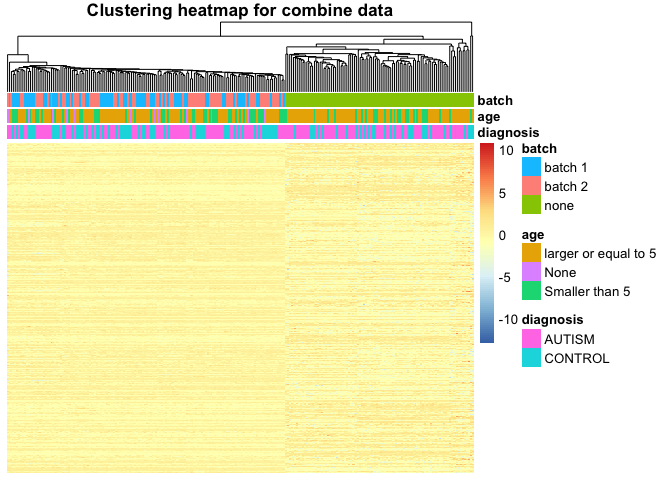
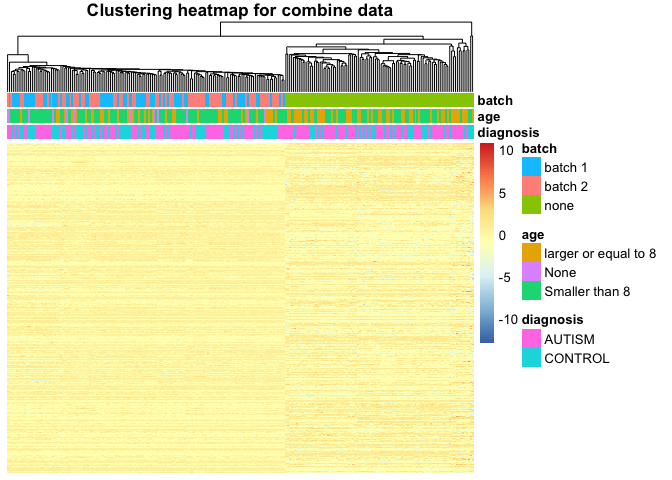
correct file

diff --git a/code/Pre_processing.md b/code/Pre_processing.md
@@ -150,7 +150,7 @@ Load the data
 
     ## File stored at:
 
-    ## /var/folders/ym/nv8j72n54cqb51_bvr34n90m0000gn/T//RtmpbuvqYN/GPL570.soft
+    ## /var/folders/ym/nv8j72n54cqb51_bvr34n90m0000gn/T//Rtmp6nby3k/GPL570.soft
 
     ## GSE18123-GPL6244_series_matrix.txt.gz
 
@@ -163,7 +163,7 @@ Load the data
 
     ## File stored at:
 
-    ## /var/folders/ym/nv8j72n54cqb51_bvr34n90m0000gn/T//RtmpbuvqYN/GPL6244.soft
+    ## /var/folders/ym/nv8j72n54cqb51_bvr34n90m0000gn/T//Rtmp6nby3k/GPL6244.soft
 
 ``` r
 geo_GSE18123<- geo_GSE18123[[1]]
@@ -269,7 +269,7 @@ dim(meta_data_GSE18123)
 ``` r
 ## convert age to categorial variable
 F_meta_data_GSE18123<-meta_data_GSE18123 %>% dplyr::select(organism,sample_name,diagnosis,age,batch)
-F_meta_data_GSE18123$age<-ifelse(F_meta_data_GSE18123$age>= 5, "larger or equal to 5", ifelse(F_meta_data_GSE18123$age < 5,"Smaller than 5",  "error"))
+F_meta_data_GSE18123$age<-ifelse(F_meta_data_GSE18123$age>= 8, "larger or equal to 8", ifelse(F_meta_data_GSE18123$age < 8,"Smaller than 8",  "error"))
 F_meta_data_GSE18123$age[is.na(F_meta_data_GSE18123$age)] <- "None"
 ```
 
@@ -293,7 +293,7 @@ geo_GSE25507 <- getGEO("GSE25507", GSEMatrix = TRUE)
     ## See spec(...) for full column specifications.
 
     ## Using locally cached version of GPL570 found here:
-    ## /var/folders/ym/nv8j72n54cqb51_bvr34n90m0000gn/T//RtmpbuvqYN/GPL570.soft
+    ## /var/folders/ym/nv8j72n54cqb51_bvr34n90m0000gn/T//Rtmp6nby3k/GPL570.soft
 
 ``` r
 geo_GSE25507<- geo_GSE25507[[1]]
@@ -357,7 +357,7 @@ dim(meta_data_GSE25507)
 ``` r
 # convert age to categorial variable
 F_meta_data_GSE25507<-meta_data_GSE25507 %>% dplyr::select(organism,sample_name,diagnosis,age, batch)
-F_meta_data_GSE25507$age<-ifelse(F_meta_data_GSE25507$age >= 5, "larger or equal to 5", ifelse(F_meta_data_GSE25507$age < 5,"Smaller than 5",  "error"))
+F_meta_data_GSE25507$age<-ifelse(F_meta_data_GSE25507$age >= 8, "larger or equal to 8", ifelse(F_meta_data_GSE25507$age < 8,"Smaller than 8",  "error"))
 F_meta_data_GSE25507$age[is.na(F_meta_data_GSE25507$age)] <- "None"
 ```
 
@@ -407,7 +407,7 @@ system.time(combine_norm <- normalizeBetweenArrays(combine_matrix))
 ```
 
     ##    user  system elapsed 
-    ##   6.550   0.840   7.423
+    ##   6.568   0.839   7.434
 
 ``` r
 dat.geneMeans <- c(rowMeans(combine_norm[, 1:ncol(log_data_GSE18123)]), rowMeans(combine_norm[, ncol(log_data_GSE18123):ncol(combine_norm)])) 
@@ -430,6 +430,6 @@ Save the data to avoid future re-downloading
 
 ``` r
 #Saving normalized data seperately
-#saveRDS(combine_norm, file = "combine_norm.rds")
-#saveRDS(Meta_data, file = "Meta_data.rds")
+saveRDS(combine_norm, file = "combine_norm.rds")
+saveRDS(Meta_data, file = "Meta_data.rds")
 ```
